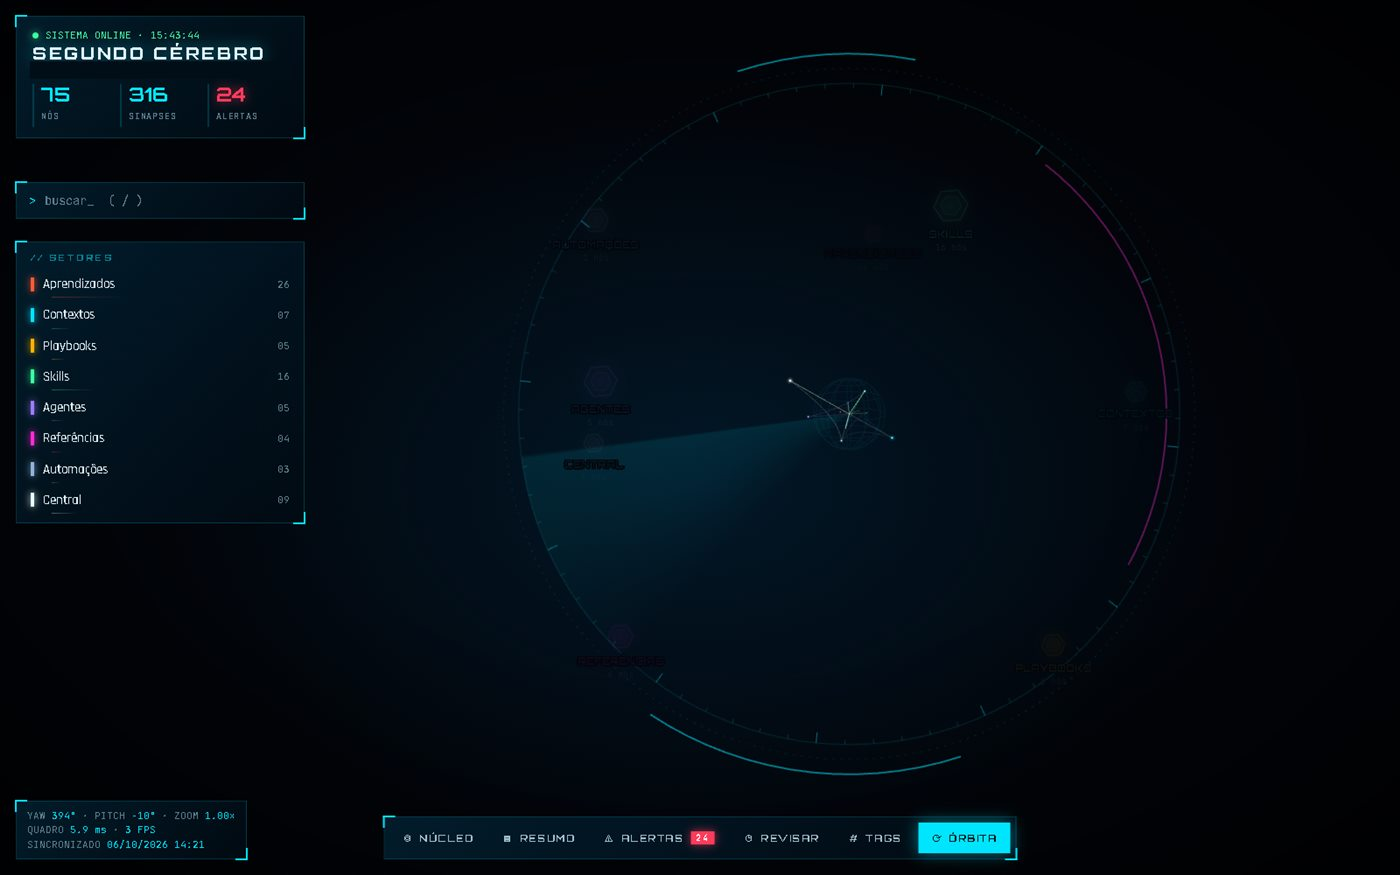
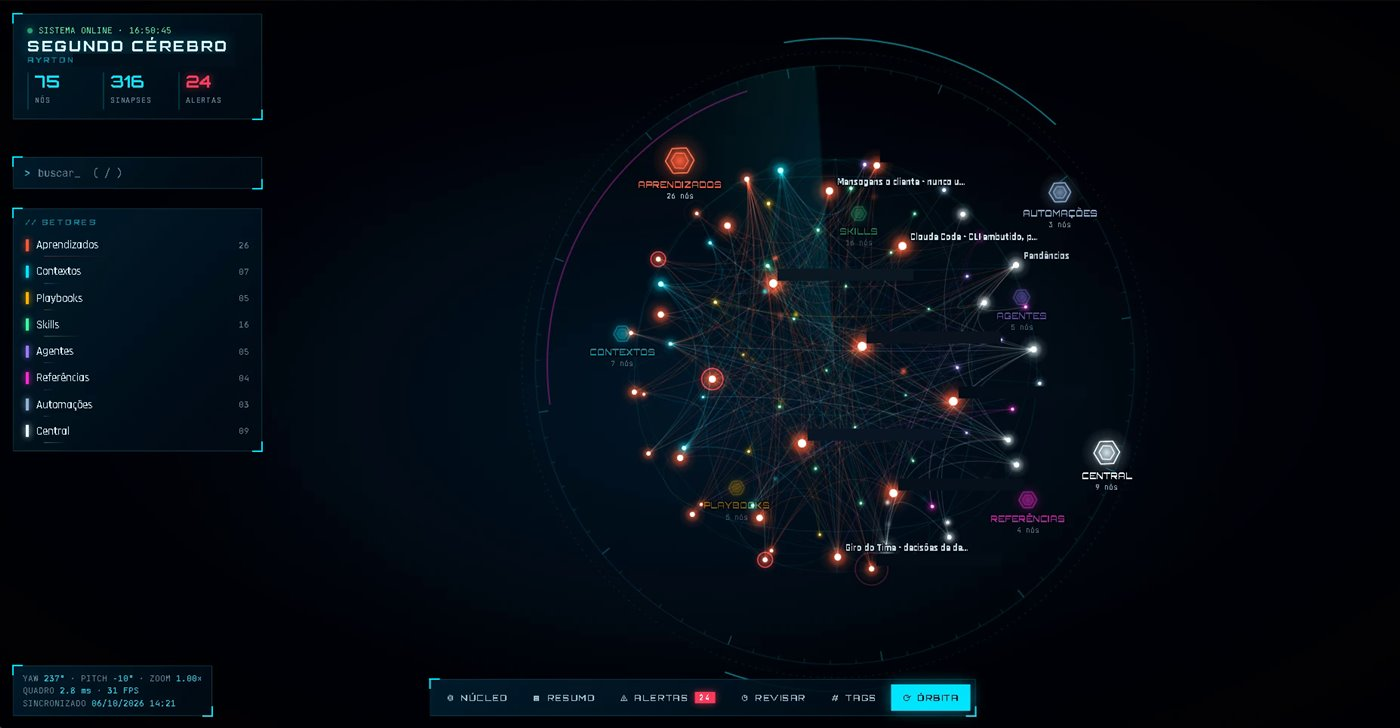
Print novo do painel 3D com o grafo completo e nomes internos ocultados

diff --git a/index.html b/index.html
@@ -548,7 +548,7 @@ section{padding:104px 0}
         </div>
         <div class="tags det"><span>Obsidian</span><span>Python</span><span>Three.js</span><span>Git</span></div>
       </div>
-      <figure class="case-media shot rv"><img src="assets/prova-painel.jpg" alt="Painel do segundo cérebro com setores, contadores de nós e conexões e um grafo 3D" width="1400" height="875" loading="lazy"><figcaption>Painel real, gerado a partir do acervo</figcaption></figure>
+      <figure class="case-media shot rv"><img src="assets/prova-painel.jpg" alt="Painel do segundo cérebro com setores, contadores de nós e conexões e um grafo 3D" width="1400" height="728" loading="lazy"><figcaption>Painel real, gerado a partir do acervo · nomes internos ocultados</figcaption></figure>
     </article>
 
     <div class="also">
